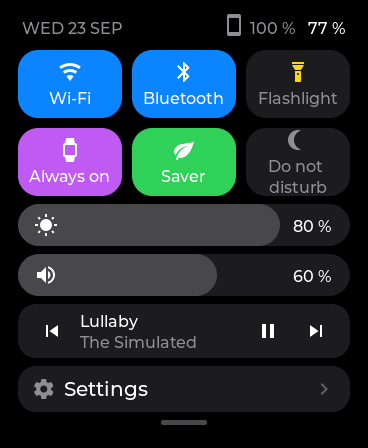
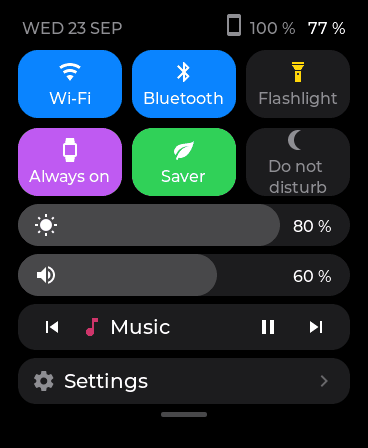
v0.5.2: the control centre's music row names the player

diff --git a/sim/hal_sim.c b/sim/hal_sim.c
@@ -908,7 +908,7 @@ const char *aos_hal_media_peer(void)
 
 const char *aos_hal_media_player(void)
 {
-    return aos_hal_media_link() == AOS_MEDIA_CONNECTED ? "Musica" : "";
+    return aos_hal_media_link() == AOS_MEDIA_CONNECTED ? "Music" : "";
 }
 
 bool aos_hal_media_info(aos_media_info_t *out)

diff --git a/README.md b/README.md
@@ -119,7 +119,7 @@ as a page of its own. The screen timeouts are settings now, and the menu and
 About pages carry a QR to the portal.
 
 **Control centre.** A swipe down on the watchface pulls down the six quick
-tiles, the brightness and the volume, the phone's music while something plays,
+tiles, the brightness and the volume, the phone's player while something plays,
 and a way into Settings; a swipe up puts it away. It opens in under 60 ms.
 
 <img src="docs/img/control-centre.png" width="220">

diff --git a/CHANGELOG.md b/CHANGELOG.md
@@ -3,7 +3,9 @@
 Newest first. Versions are git tags; what is above the latest tag is on
 `main` and not yet in a release.
 
-## Unreleased
+## v0.5.2 — 2026-09-23
+
+The control centre's music row, fixed.
 
 - **Control centre**: the music row shows which app is playing ("Spotify",
   "Music") on one line instead of the track and artist, which did not fit
